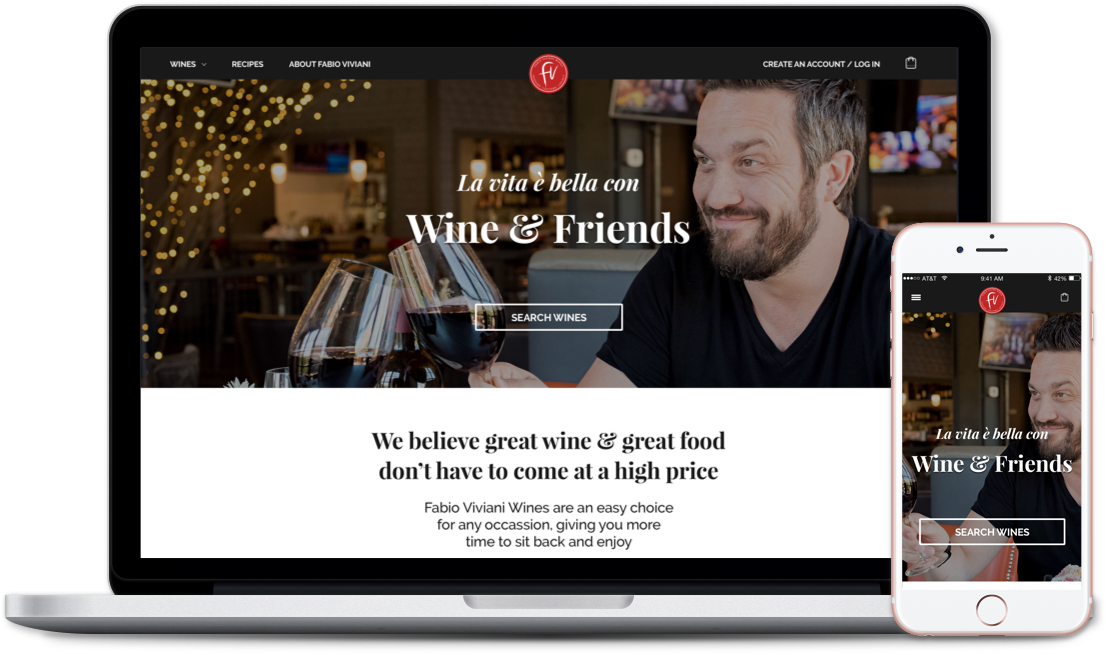
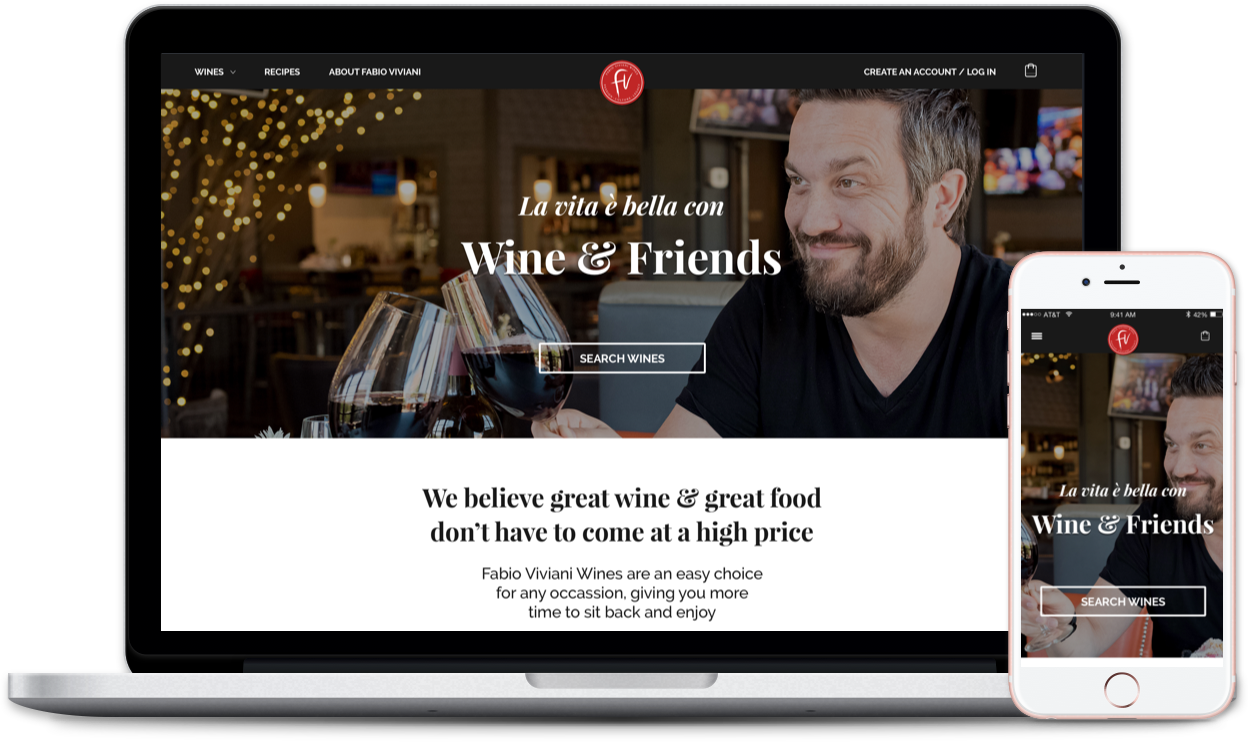
new images

diff --git a/app/styles/sam-hero.scss b/app/styles/sam-hero.scss
@@ -1,7 +1,7 @@
 
 .home .homepage-hero {
   .hero-bg-img {
-    background: url(/images/home/homepage-background.png) no-repeat center 97%; 
+    background: url(/images/home/homepage-hero.jpg) no-repeat center 97%; 
     background-size: cover;
     height: 615px;
     padding-top: 30px;
